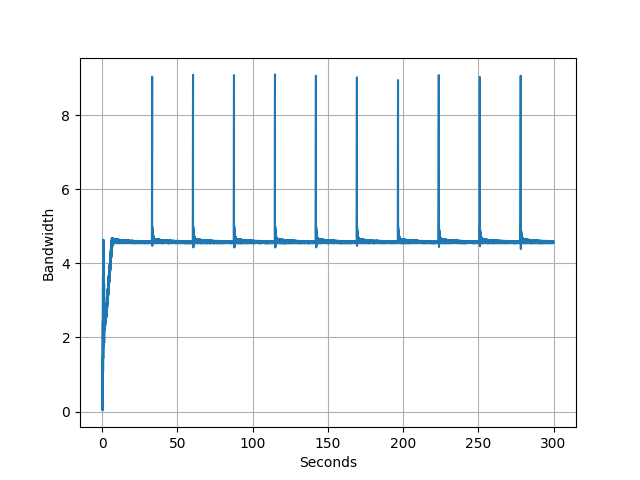
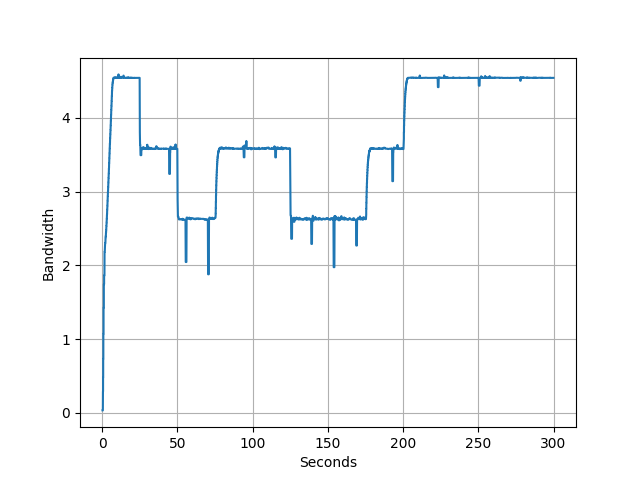
Added code to simulate UDP connections

Changed region(s): [[0.0938, 0.1562, 0.9062, 0.75], [0.0938, 0.8438, 0.9062, 0.875]]

diff --git a/scratch/bandwidthestimation/bandwidthestimation.cc b/scratch/bandwidthestimation/bandwidthestimation.cc
@@ -105,6 +105,7 @@ main (int argc, char *argv[])
 
   NS_LOG_UNCOND("Setting up the Application...");
 
+  // TCP
   uint16_t receiverPort = 5001;
   AddressValue receiverAddress (InetSocketAddress (h1h2_interfaces.GetAddress (1),
                                                    receiverPort));
@@ -126,6 +127,33 @@ main (int argc, char *argv[])
   sourceApp.Stop (Seconds ((double)time));
 
   Simulator::Schedule (Seconds (TRACE_START_TIME), &TraceEstimatedBW, estimatedBWStream);
+
+  // UDP
+  uint16_t port = 10003;
+  AddressValue addr (InetSocketAddress (h1h2_interfaces.GetAddress (1),
+                                                   port));
+  PacketSinkHelper udpReceiverHelper ("ns3::UdpSocketFactory",
+                                   addr.Get());
+
+  ApplicationContainer udpReceiverApp = udpReceiverHelper.Install (h2);
+  udpReceiverApp.Start (Seconds (0.0));
+  udpReceiverApp.Stop (Seconds ((double)time));
+
+  OnOffHelper udpOnOffHelper ("ns3::UdpSocketFactory", Address ());
+  udpOnOffHelper.SetConstantRate (DataRate ("1Mb/s"));
+  udpOnOffHelper.SetAttribute ("Remote", addr);
+
+  ApplicationContainer udpOnOffApp1 = udpOnOffHelper.Install (h1);
+  udpOnOffApp1.Start (Seconds (25.0));
+  udpOnOffApp1.Stop (Seconds (200.0));
+
+  ApplicationContainer udpOnOffApp2 = udpOnOffHelper.Install (h1);
+  udpOnOffApp2.Start (Seconds (50.0));
+  udpOnOffApp2.Stop (Seconds (75.0));
+
+  ApplicationContainer udpOnOffApp3 = udpOnOffHelper.Install (h1);
+  udpOnOffApp3.Start (Seconds (125.0));
+  udpOnOffApp3.Stop (Seconds (175.0));
 
   NS_LOG_UNCOND("Running the Simulation...");
   Simulator::Stop (Seconds ((double)time));

diff --git a/scratch/bandwidthestimation/bandwidthestimation.py b/scratch/bandwidthestimation/bandwidthestimation.py
@@ -1,28 +1,34 @@
 import argparse
 import os
 import matplotlib.pyplot as plt
+import numpy as np
 
 # Plot the Estimated BW over Time
-import numpy as np
+
+parser = argparse.ArgumentParser()
+parser.add_argument('--dir', '-d',
+                    help="Directory to find the trace files",
+                    required=True,
+                    action="store",
+                    dest="dir")
+args = parser.parse_args()
 
 estimatedBWTraceTimes = []
 estimatedBWTraceVals = []
 
 dir = 'outputs'
 
-with open(os.path.join(dir, 'estimated-bw.tr'),'r') as f:
+with open(os.path.join(args.dir, 'estimated-bw.tr'),'r') as f:
     for line in f:
         estimatedBWTrace = line.split()
 
         estimatedBWTraceTimes.append(float(estimatedBWTrace[0]))
         estimatedBWTraceVals.append((8 * float(estimatedBWTrace[1])) / (1000 * 1000))
 
-estimatedBWFileName = os.path.join(dir, 'estimated-bw.png')
-
-print(np.average(estimatedBWTraceVals))
+estimatedBWFileName = os.path.join(args.dir, 'estimated-bw.png')
 
 plt.figure()
-plt.plot(estimatedBWTraceTimes, estimatedBWTraceVals)
+plt.plot(estimatedBWTraceTimes, estimatedBWTraceVals, c="C0")
 plt.ylabel('Bandwidth')
 plt.xlabel('Seconds')
 plt.grid()
